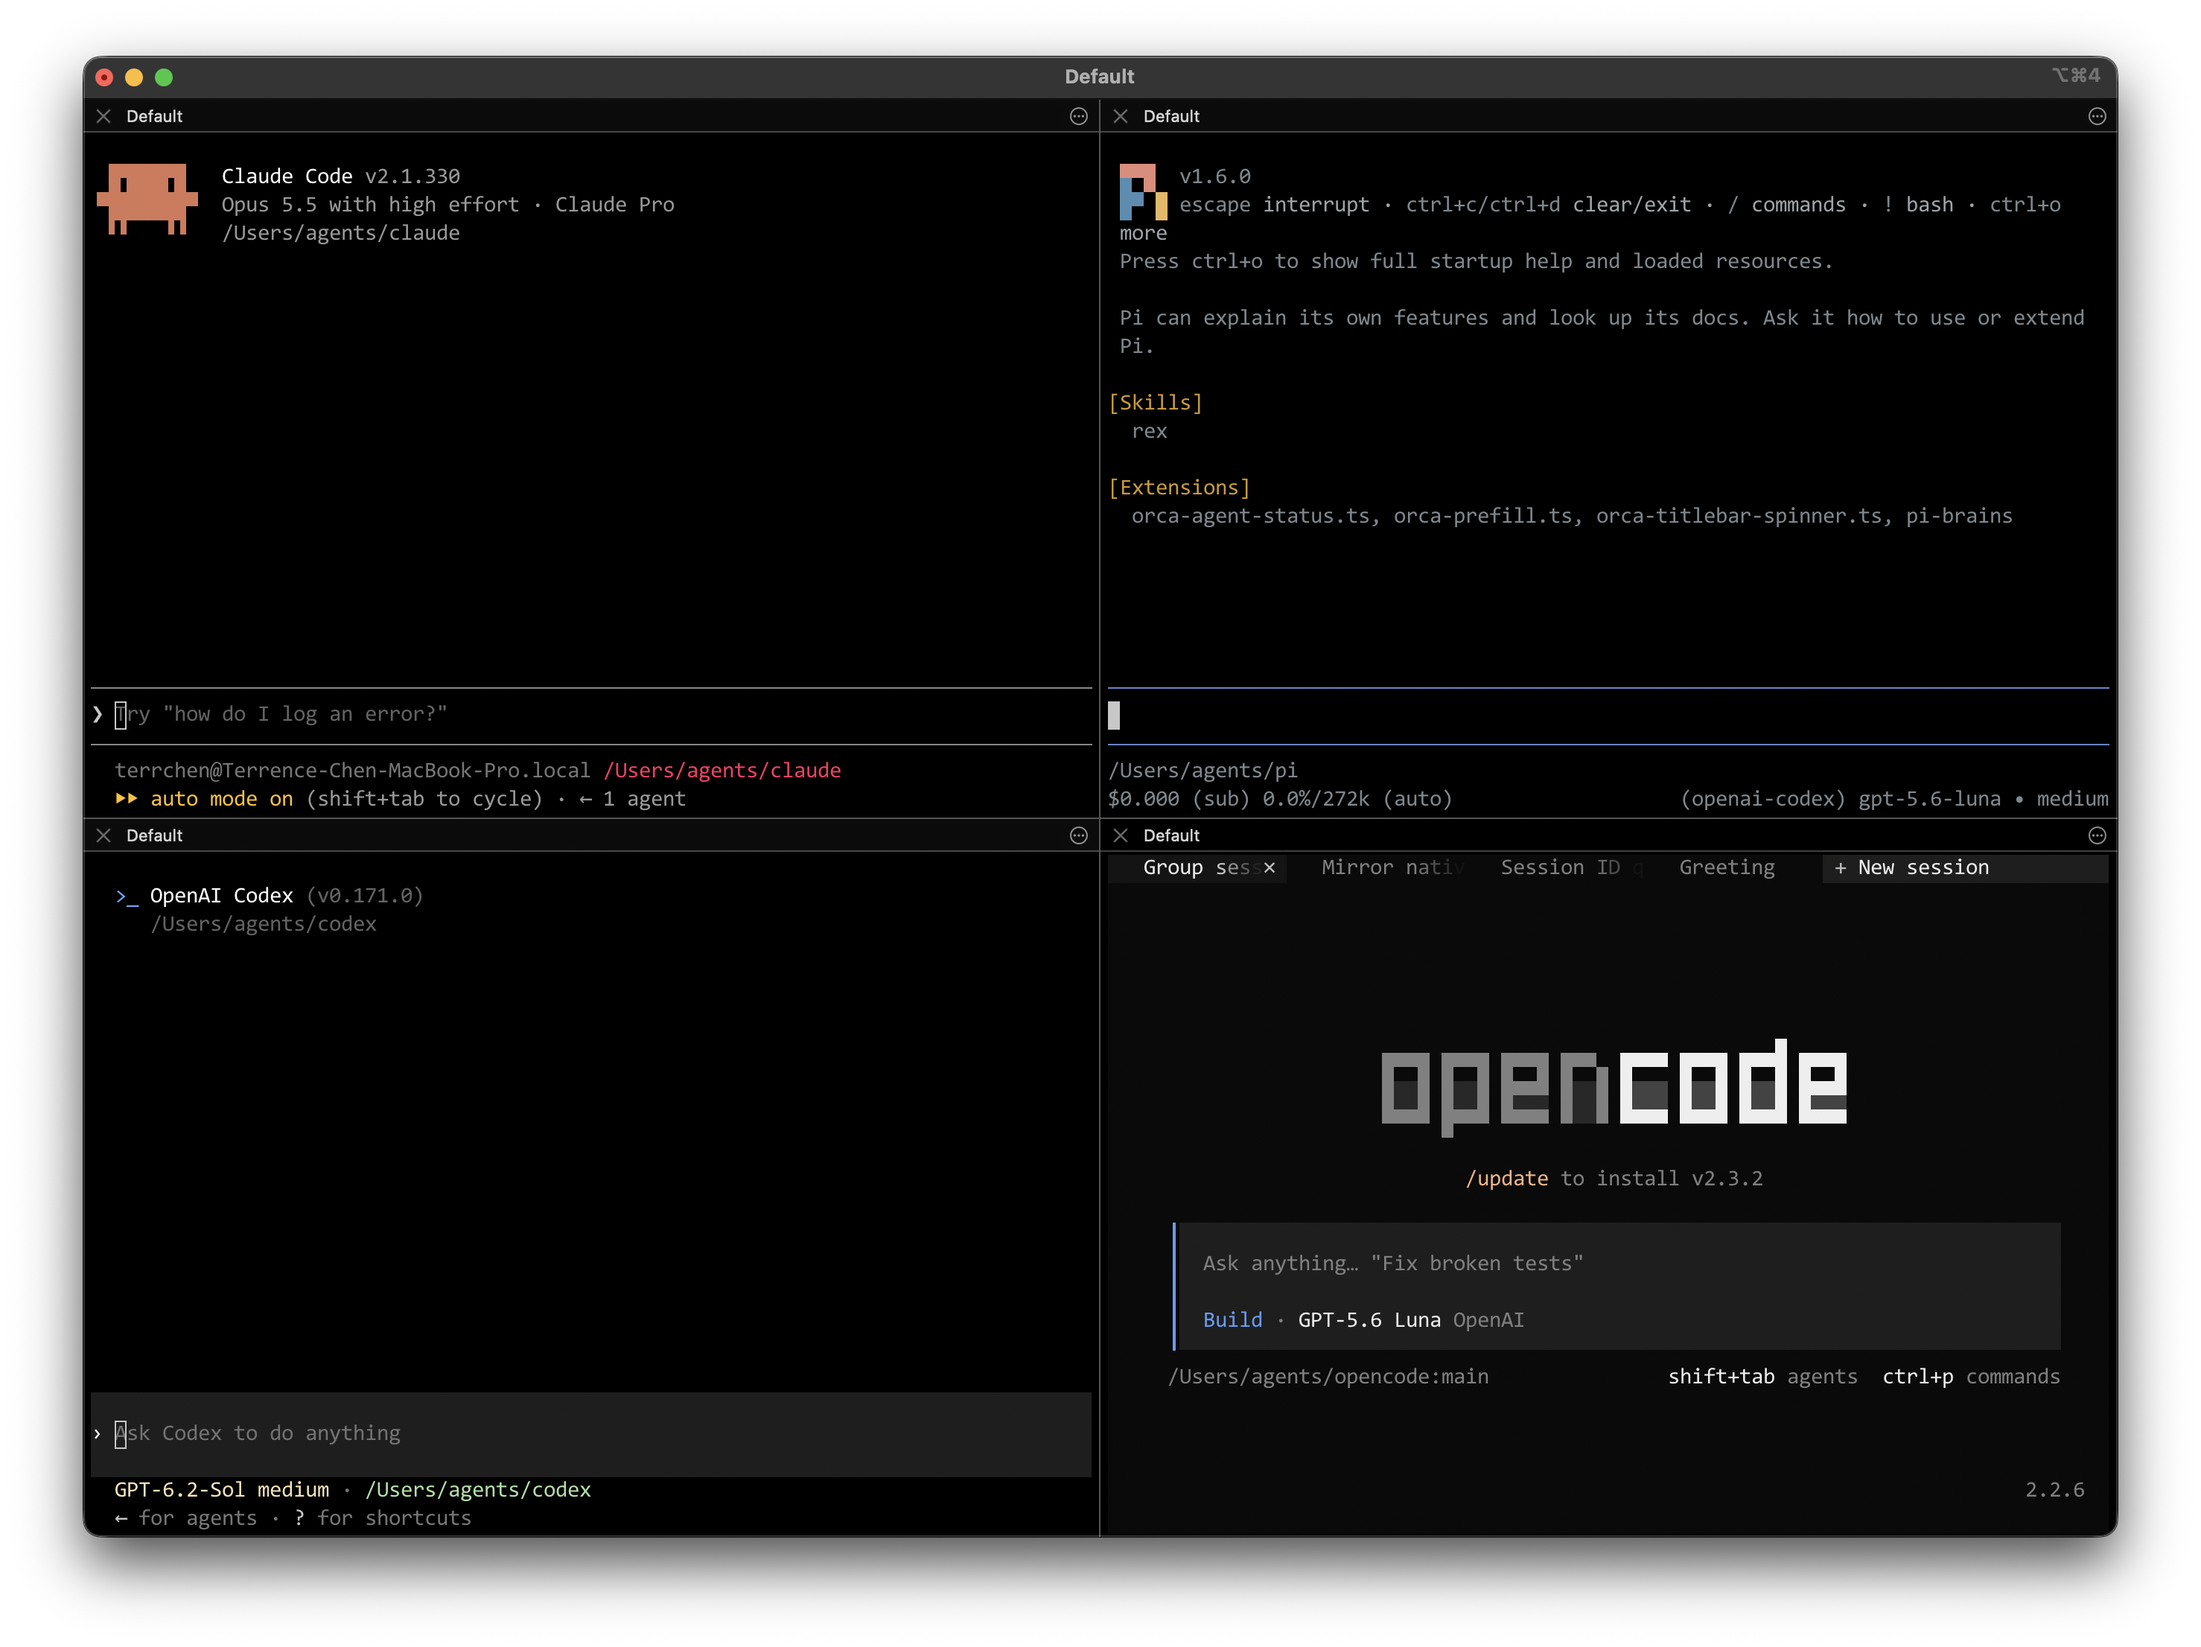
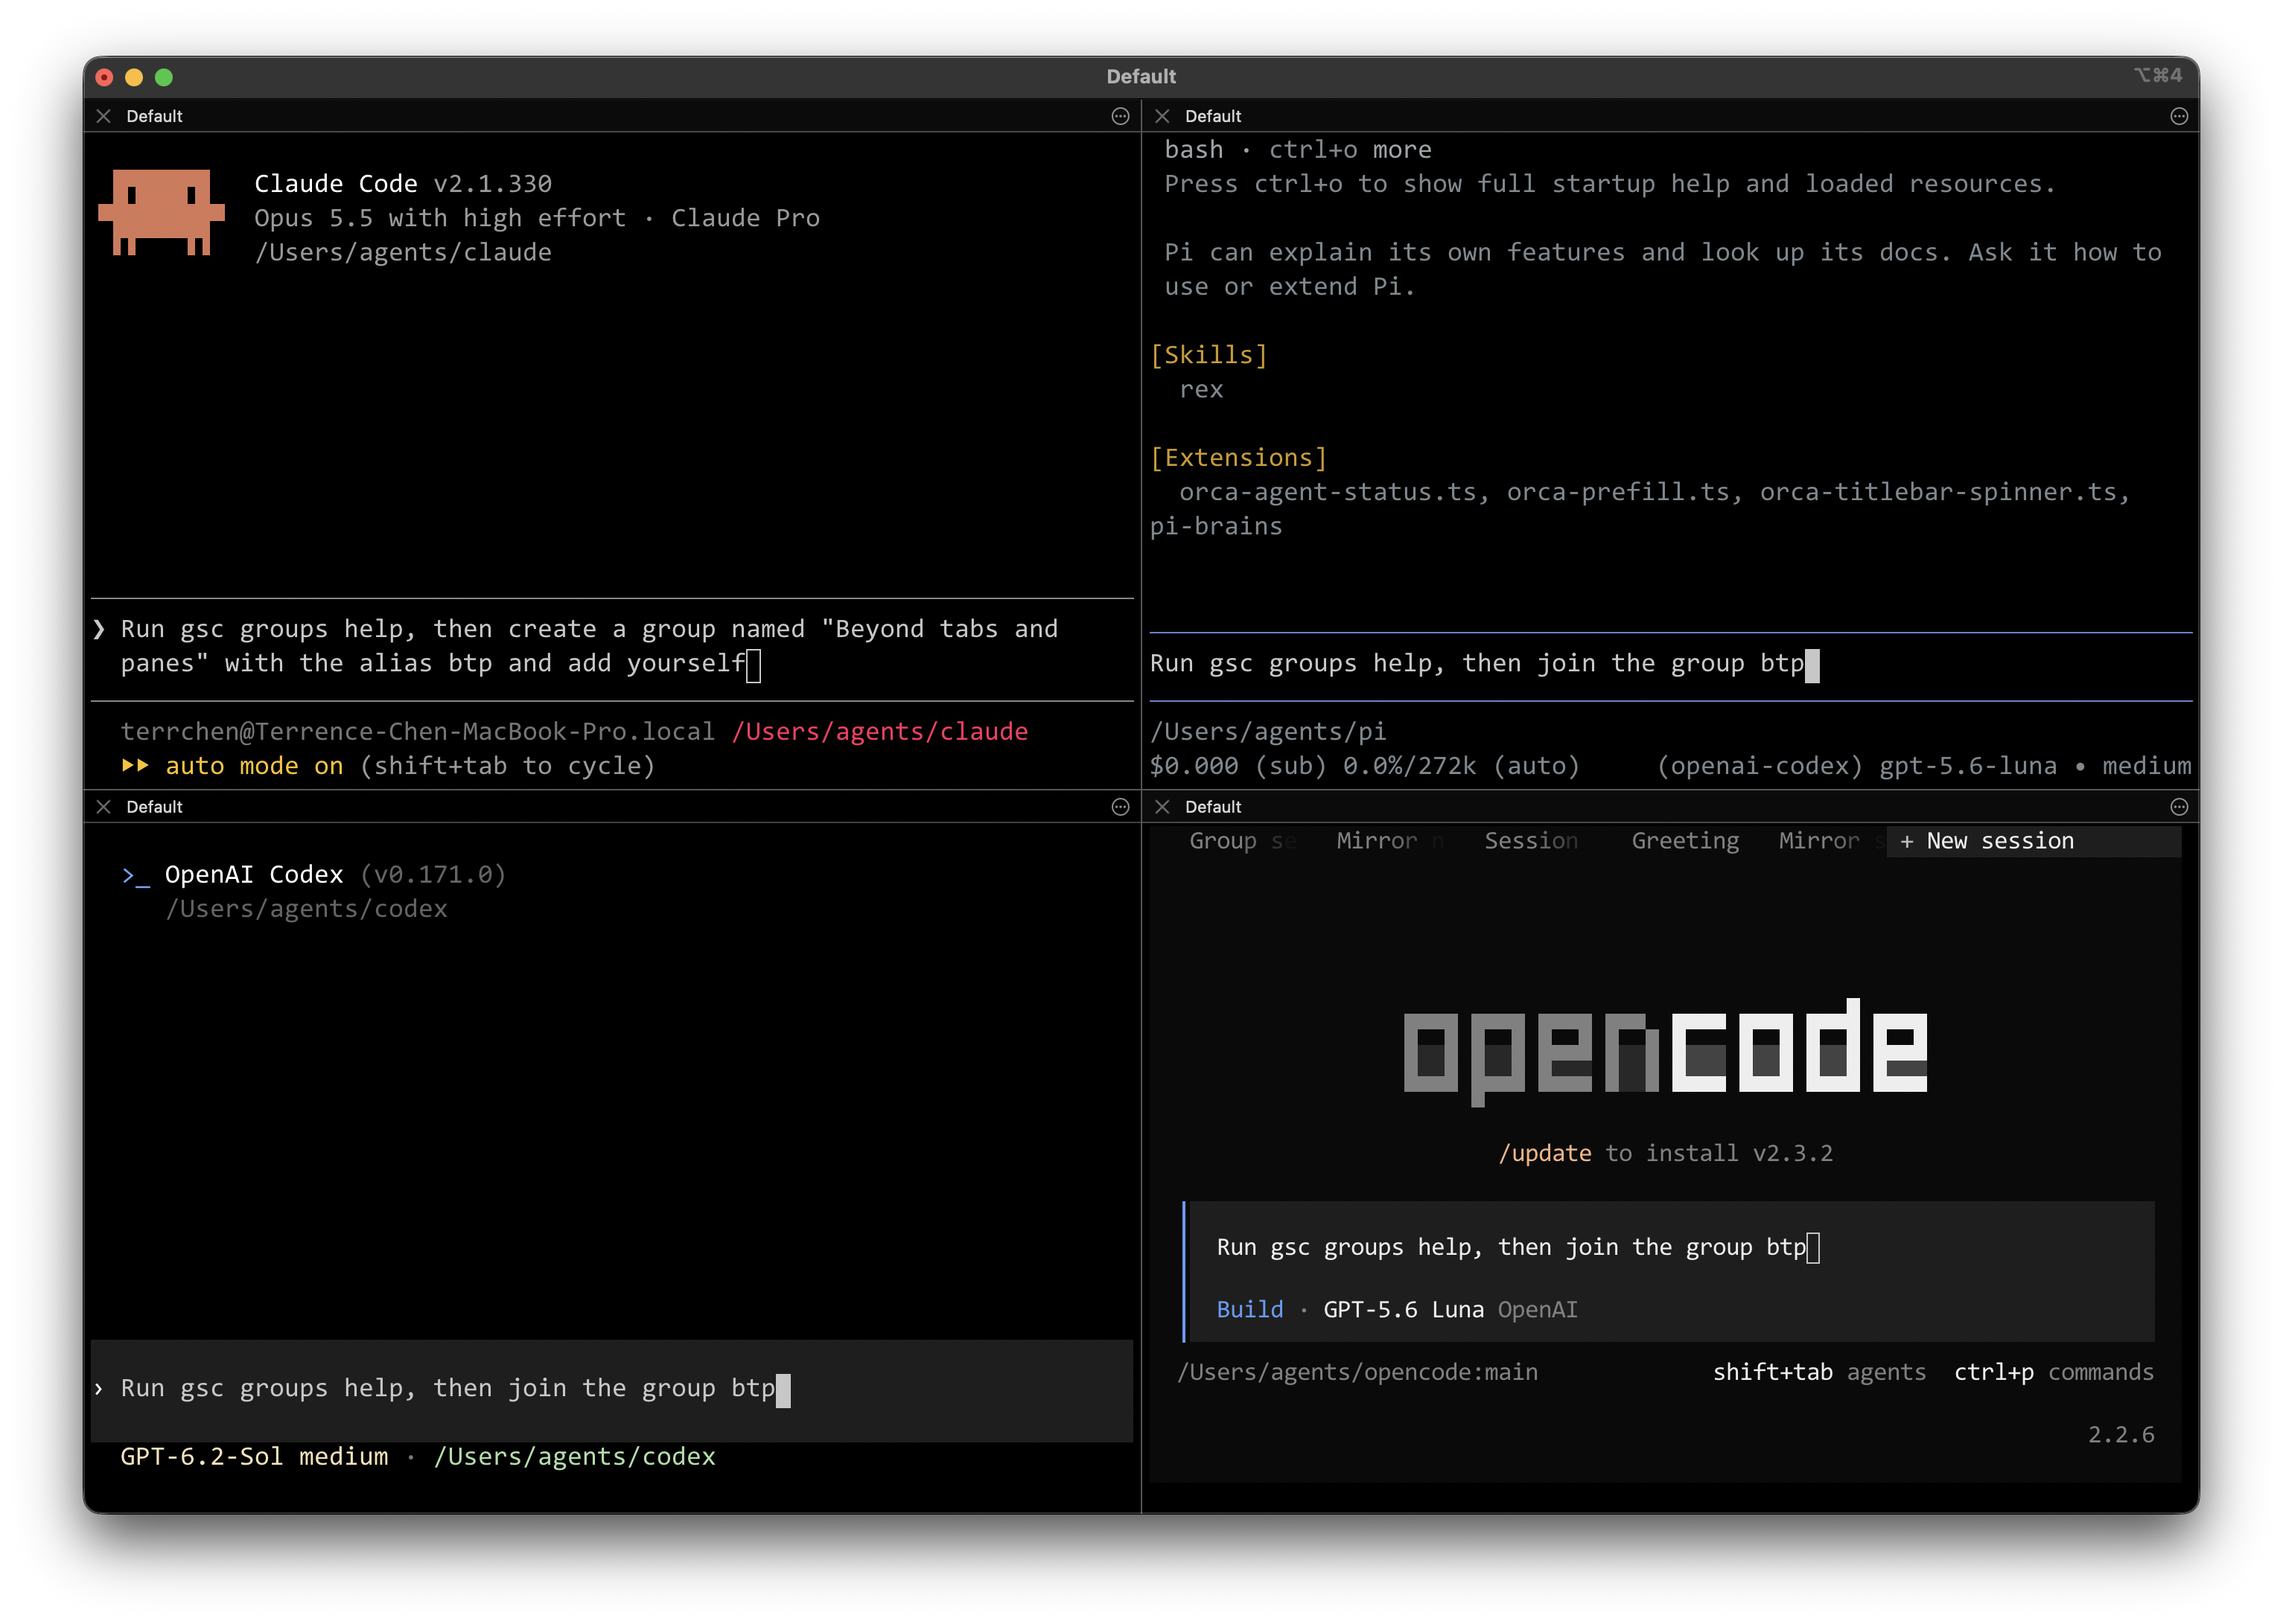
Show Beyond tabs and panes in Home, Focus, and Tiles

diff --git a/README.md b/README.md
@@ -56,17 +56,15 @@ Run gsc groups help, then create a group named "Beyond tabs and panes" with the 
 Run gsc groups help, then join the group btp
 ```
 
-<img src="assets/agents-in-their-terminals.png" alt="Claude Code, Pi, Codex, and OpenCode in four terminal panes." width="100%">
+<img src="assets/agents-in-their-terminals.png" alt="Four terminal panes showing Claude Code with the prompt to create Beyond tabs and panes, and Pi, Codex, and OpenCode with the prompt to join btp." width="100%">
 
 Then organize the Group in a way that makes sense to you. Name your sections, arrange the cards, and choose how to display them.
 
-*Screenshots to come.*
-
 <table>
   <tr>
-    <td width="33%" valign="top"><img src="assets/readme-v2/group-cards-view-placeholder.png" alt="Placeholder for the Group's Cards view." width="100%"><br>Cards</td>
-    <td width="33%" valign="top"><img src="assets/readme-v2/group-list-view-placeholder.png" alt="Placeholder for the Group's List view." width="100%"><br>List</td>
-    <td width="33%" valign="top"><img src="assets/readme-v2/group-overview-view-placeholder.png" alt="Placeholder for the Group's Overview view." width="100%"><br>Overview</td>
+    <td width="33%" valign="top"><a href="assets/beyond-tabs-and-panes-home.png"><img src="assets/beyond-tabs-and-panes-home.png" alt="Group Home with stock metrics above the diff, source file, and reorder table." width="100%"></a><br>Home</td>
+    <td width="33%" valign="top"><a href="assets/beyond-tabs-and-panes-focus.png"><img src="assets/beyond-tabs-and-panes-focus.png" alt="Focus view showing just the reorder table and code diff side by side." width="100%"></a><br>Focus</td>
+    <td width="33%" valign="top"><a href="assets/beyond-tabs-and-panes-tiles.png"><img src="assets/beyond-tabs-and-panes-tiles.png" alt="Tiles view showing all four agent cards in a two-by-two grid." width="100%"></a><br>Tiles</td>
   </tr>
 </table>
 
